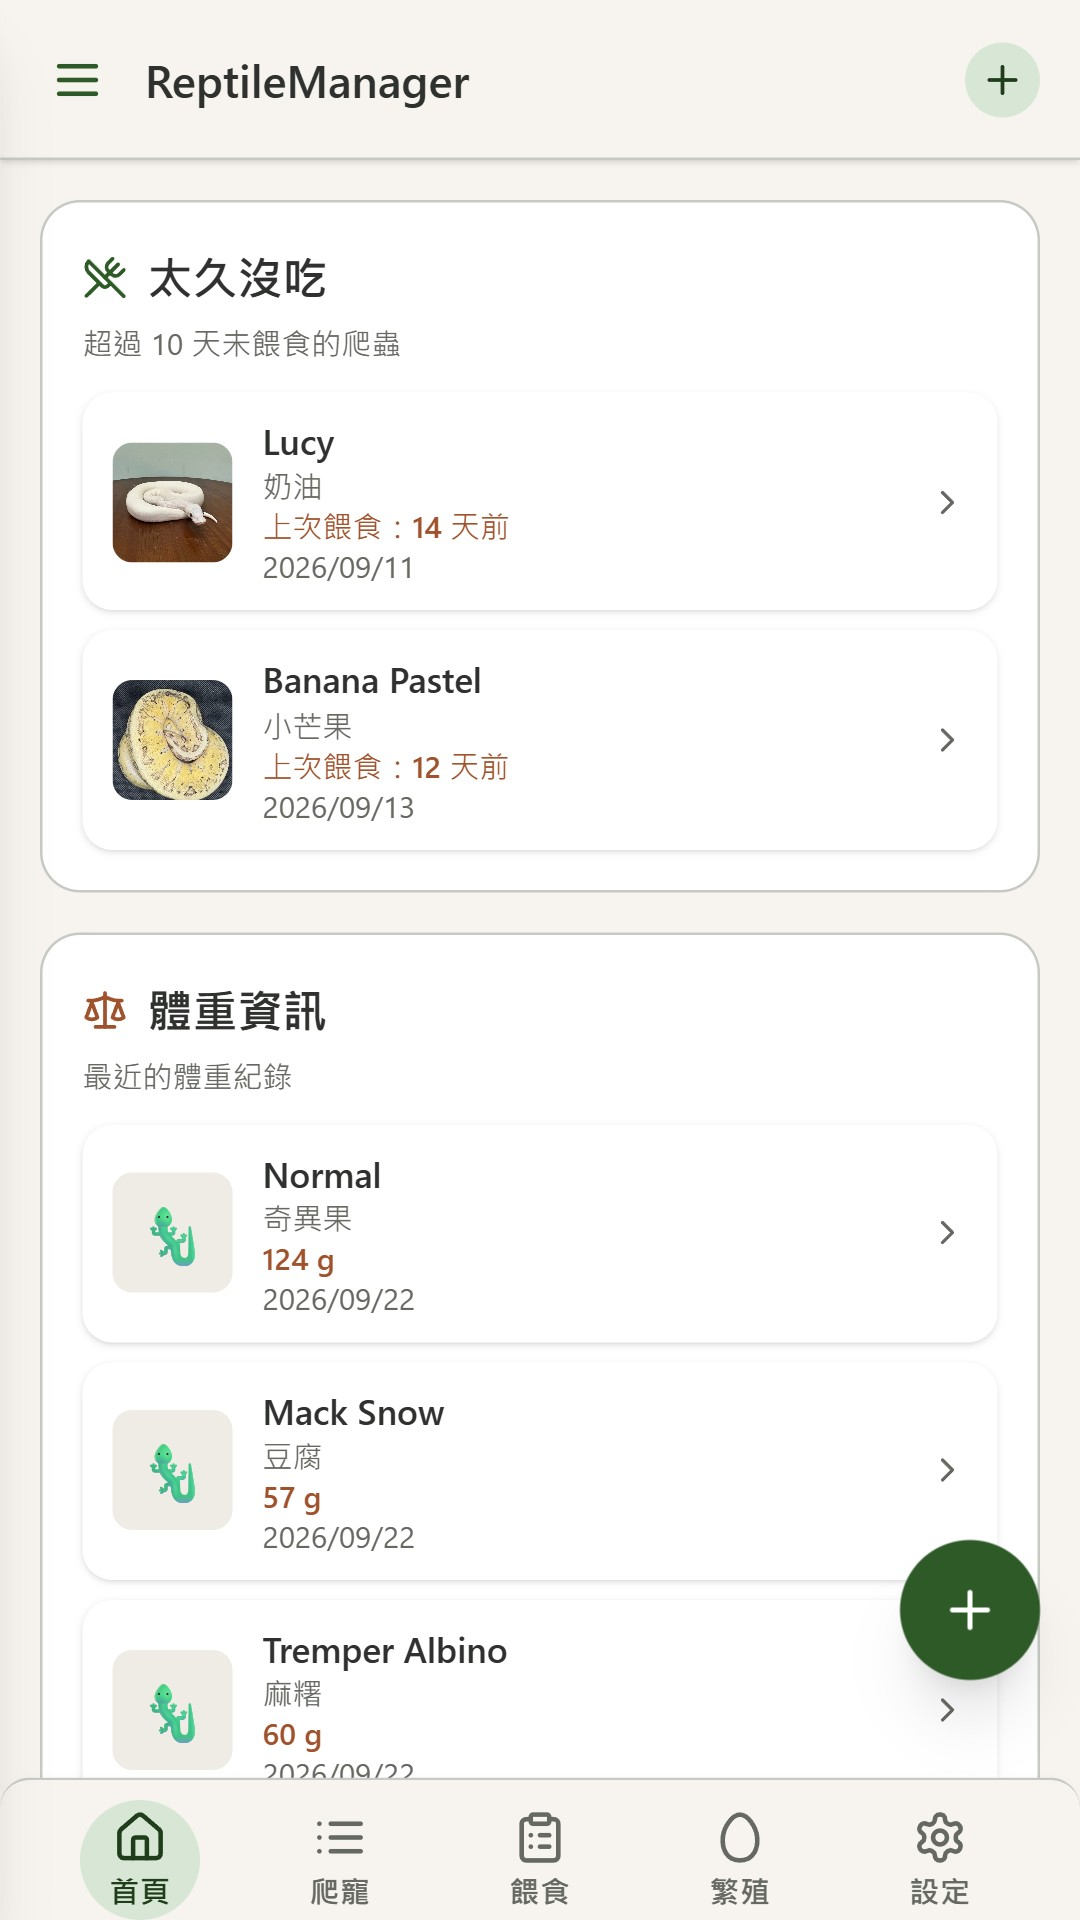
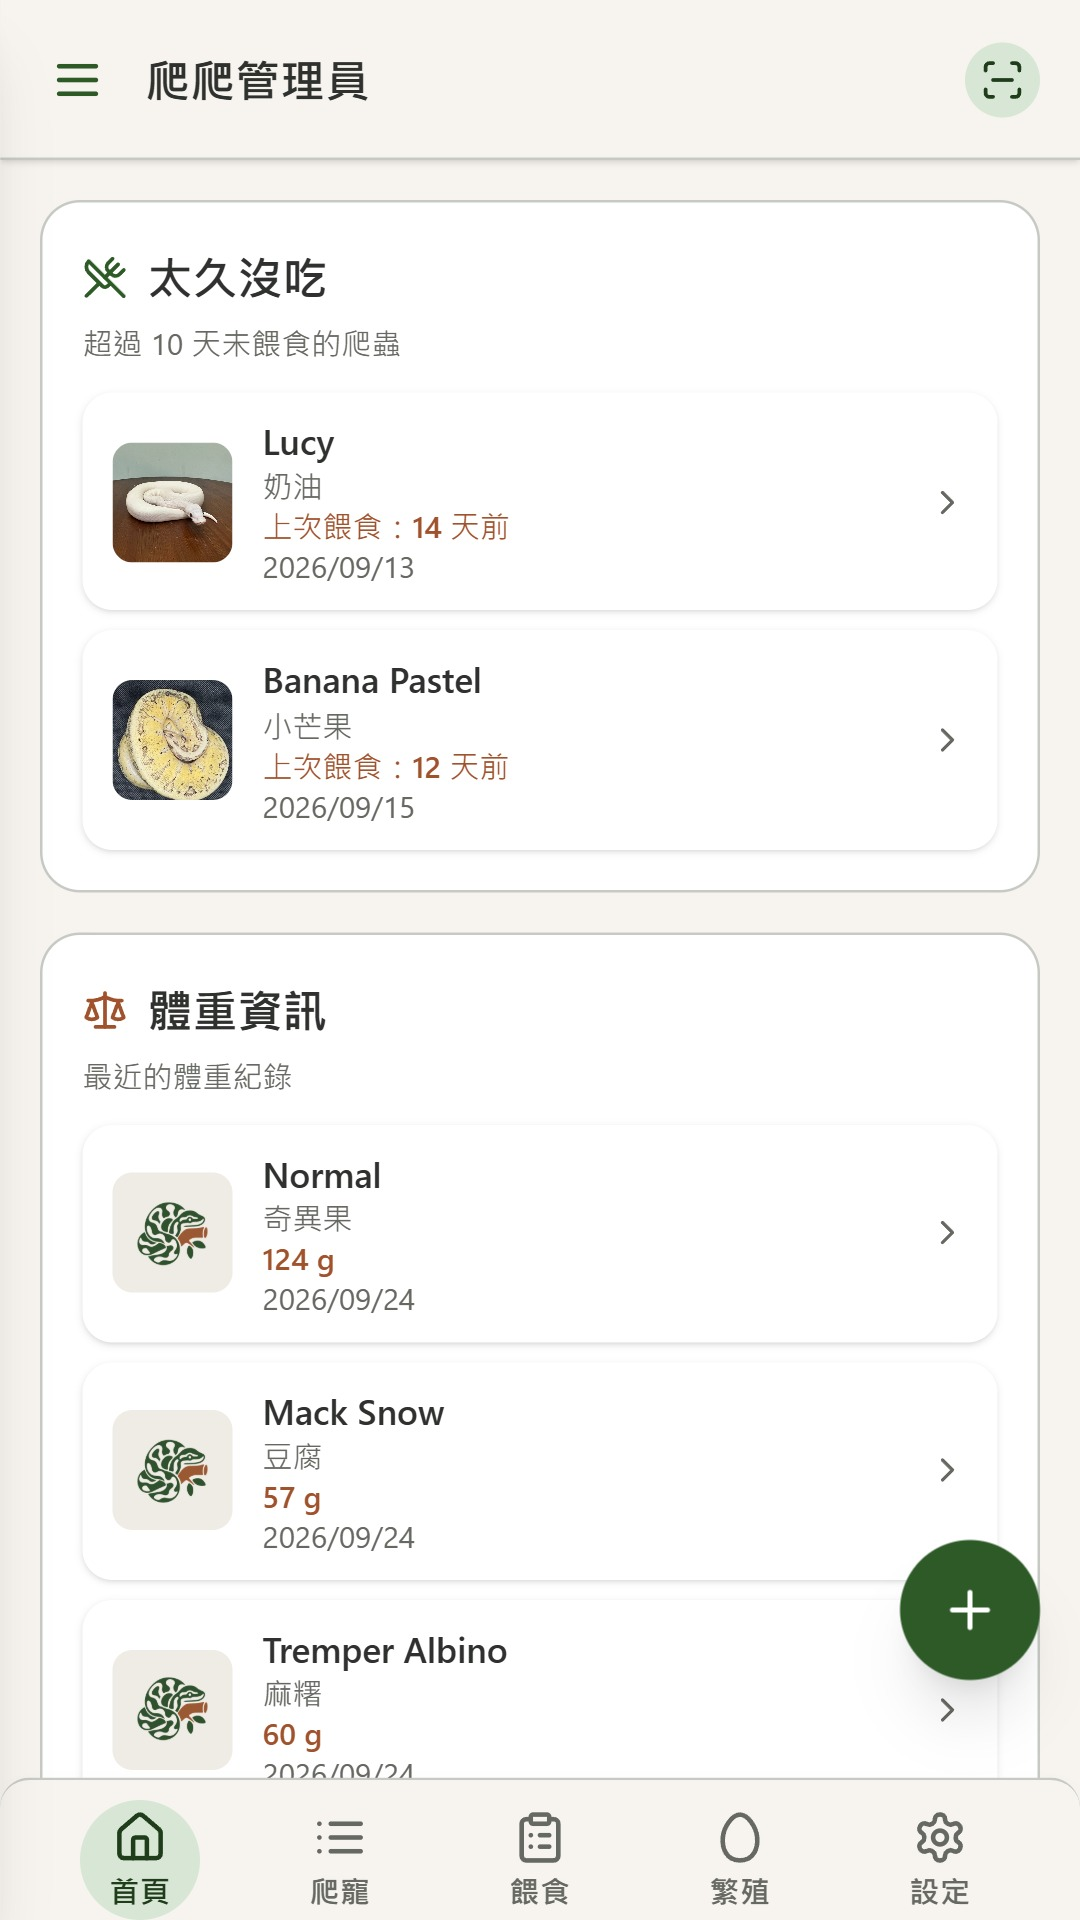
feat: update version to 0.5.3, add TipCard component with random tips feature, and enhance localization support for tips

diff --git a/src/components/TipCard.tsx b/src/components/TipCard.tsx
@@ -1,0 +1,55 @@
+import { useMemo, useState } from 'react'
+import { Link } from 'react-router-dom'
+import { ArrowRight, Lightbulb, Shuffle } from 'lucide-react'
+import { useTranslation } from 'react-i18next'
+import { availableTips, randomTipIndex } from '../lib/tips'
+
+// A random feature tip, in the spirit of iPhone's Tips. Picks a new one on each mount.
+export function TipCard({ className = '' }: { className?: string }) {
+  const { t } = useTranslation()
+  const tips = useMemo(availableTips, [])
+  const [index, setIndex] = useState(() => randomTipIndex(tips.length))
+  const tip = tips[index]
+  if (!tip) return null
+  const { Icon } = tip
+
+  return (
+    <aside
+      className={`rounded-2xl border border-tertiary bg-tertiary-container p-4 text-left ${className}`}
+      aria-label={t('tips.title')}
+      aria-live="polite"
+    >
+      <p className="mb-2 flex items-center gap-1.5 text-xs font-semibold uppercase tracking-wide text-secondary">
+        <Lightbulb size={14} aria-hidden="true" />
+        {t('tips.title')}
+      </p>
+      <div className="flex gap-3">
+        <span className="flex h-9 w-9 shrink-0 items-center justify-center rounded-xl bg-surface-container-lowest text-primary shadow-sm">
+          <Icon size={18} aria-hidden="true" />
+        </span>
+        <div className="min-w-0 flex-1">
+          <p className="text-sm font-semibold text-on-surface">{t(`tips.items.${tip.id}.title`)}</p>
+          <p className="mt-0.5 text-xs leading-relaxed text-on-surface-variant">{t(`tips.items.${tip.id}.body`)}</p>
+        </div>
+      </div>
+      <div className="mt-3 flex items-center justify-between gap-2">
+        {tip.to ? (
+          <Link to={tip.to} className="inline-flex items-center gap-1 text-xs font-semibold text-primary">
+            {t('tips.goTo')}
+            <ArrowRight size={14} aria-hidden="true" />
+          </Link>
+        ) : <span />}
+        {tips.length > 1 && (
+          <button
+            type="button"
+            onClick={() => setIndex((i) => randomTipIndex(tips.length, i))}
+            className="inline-flex items-center gap-1 rounded-lg px-2 py-1 text-xs font-semibold text-on-surface-variant hover:bg-surface-container"
+          >
+            <Shuffle size={14} aria-hidden="true" />
+            {t('tips.another')}
+          </button>
+        )}
+      </div>
+    </aside>
+  )
+}

diff --git a/src/i18n/en.ts b/src/i18n/en.ts
@@ -481,6 +481,23 @@ const en: Translation = {
     sentBody: 'I will read your message carefully.',
     sendAnother: 'Write another',
   },
+  tips: {
+    title: 'Tip',
+    another: 'Another tip',
+    goTo: 'Take a look',
+    items: {
+      scan: { title: 'Scan to open records', body: 'Tap the scan button at the top right of Home and point it at the QR code on an enclosure to jump straight to that reptile.' },
+      swipe: { title: 'Swipe for the next reptile', body: 'On a reptile\'s detail page, swipe left or right to move to the previous or next one without going back to the list.' },
+      qrExport: { title: 'Print every QR code at once', body: 'Go to Settings → Export QR Codes to get all your reptiles\' QR codes laid out, ready to print or save as PDF.' },
+      breeding: { title: 'Hatch dates, worked out for you', body: 'Add a clutch under Breeding and it lists the candling, misting, and expected hatch dates from the lay date.' },
+      todoInterval: { title: 'Reminders every N days', body: 'In Tasks you can set reminders every N days, weekly, or daily — water changes, cleaning, substrate.' },
+      quickLog: { title: 'Log straight from the list', body: 'Tap Feed or Shed on a card in your Collection. When you are done it scrolls back to that card, so logging several in a row is quick.' },
+      photoBackup: { title: 'Photos are backed up too', body: 'Uploaded photos live only on this phone. Exporting a backup in Settings includes them, so switching phones is safe.' },
+      categories: { title: 'Make categories your own', body: 'In Categories you can add, rename, or delete categories. Renaming one also updates the reptiles that use it.' },
+      install: { title: 'Install it to your home screen', body: 'Installed, it opens from your home screen and works offline, and on iPhone its data is less likely to be cleared.' },
+      feedAmount: { title: 'Any feeding amount', body: 'When logging a feeding, choose "More" to enter any number. You can edit it later in the feeding log.' },
+    },
+  },
   backup: {
     title: 'Backup & Data',
     statsSection: 'Data Summary',

diff --git a/src/i18n/zh-TW.ts b/src/i18n/zh-TW.ts
@@ -479,6 +479,23 @@ const zhTW = {
     sentBody: '你的建議我會好好看過。',
     sendAnother: '再寫一則',
   },
+  tips: {
+    title: '小技巧',
+    another: '換一個',
+    goTo: '去看看',
+    items: {
+      scan: { title: '一掃就開啟紀錄', body: '首頁右上角的掃描按鈕，對準飼育箱上的 QR Code，直接跳到那隻爬寵的頁面。' },
+      swipe: { title: '左右滑動換下一隻', body: '在爬寵的詳細頁左右滑動，就能切換上一隻、下一隻，不用回到列表。' },
+      qrExport: { title: '一次印出所有 QR Code', body: '到「設定」→「匯出 QR Code」，所有爬寵的 QR Code 會排好版，可以直接列印或存成 PDF。' },
+      breeding: { title: '孵化日自動幫你算', body: '在「繁殖」新增產蛋紀錄後，會依產卵日列出照蛋、補水和預計孵化的日子。' },
+      todoInterval: { title: '每 N 天提醒一次', body: '在「代辦管理」可以設定每 N 天、每週或每天的提醒，像是換水、清潔、換底材。' },
+      quickLog: { title: '從列表直接記錄', body: '在爬寵列表按卡片上的「餵食」或「脫皮」，記完會自動捲回那張卡片，連續記好幾隻很方便。' },
+      photoBackup: { title: '照片也會一起備份', body: '上傳的照片只存在這支手機。到「設定」匯出備份時會一起打包，換手機也不怕。' },
+      categories: { title: '分類可以自己改', body: '在「分類管理」可以新增、改名或刪除分類，改名時會一併更新用到它的爬寵。' },
+      install: { title: '裝到主畫面更安心', body: '安裝成 App 後從主畫面開啟，離線也能用；iPhone 上的資料也比較不會被系統清除。' },
+      feedAmount: { title: '餵食份量可以自訂', body: '記錄餵食時，份量選「更多」就能輸入任意數字，之後也能在餵食紀錄裡修改。' },
+    },
+  },
   backup: {
     title: '備份與資料',
     statsSection: '資料統計',

diff --git a/src/lib/tips.ts b/src/lib/tips.ts
@@ -1,0 +1,38 @@
+import type { LucideIcon } from 'lucide-react'
+import {
+  ScanLine, MoveHorizontal, QrCode, Egg, CalendarClock, MousePointerClick,
+  Camera, Tags, Smartphone, UtensilsCrossed,
+} from 'lucide-react'
+import { isStandalone } from './pwaInstall'
+
+export interface Tip {
+  id: string          // text lives at i18n `tips.items.<id>`
+  Icon: LucideIcon
+  to?: string         // optional page the "take a look" link opens
+  when?: () => boolean
+}
+
+const TIPS: Tip[] = [
+  { id: 'scan', Icon: ScanLine, to: '/scan' },
+  { id: 'swipe', Icon: MoveHorizontal, to: '/reptiles' },
+  { id: 'qrExport', Icon: QrCode, to: '/backup' },
+  { id: 'breeding', Icon: Egg, to: '/breeding' },
+  { id: 'todoInterval', Icon: CalendarClock, to: '/todos' },
+  { id: 'quickLog', Icon: MousePointerClick, to: '/reptiles' },
+  { id: 'photoBackup', Icon: Camera, to: '/backup' },
+  { id: 'categories', Icon: Tags, to: '/categories' },
+  { id: 'install', Icon: Smartphone, to: '/backup', when: () => !isStandalone() },
+  { id: 'feedAmount', Icon: UtensilsCrossed },
+]
+
+export function availableTips(): Tip[] {
+  return TIPS.filter((tip) => !tip.when || tip.when())
+}
+
+// Uniform random index; when `exclude` is given, never returns it (so "another tip" always changes)
+export function randomTipIndex(count: number, exclude?: number): number {
+  if (count <= 1) return 0
+  if (exclude === undefined) return Math.floor(Math.random() * count)
+  const i = Math.floor(Math.random() * (count - 1))
+  return i >= exclude ? i + 1 : i
+}

diff --git a/src/pages/FeedbackPage.tsx b/src/pages/FeedbackPage.tsx
@@ -3,6 +3,7 @@ import { CircleCheck, Lightbulb, Bug, Sparkles, Send, Mail } from 'lucide-react'
 import { useTranslation } from 'react-i18next'
 import { Layout } from '../components/Layout'
 import { InputField } from '../components/FormField'
+import { TipCard } from '../components/TipCard'
 import { submitFeedback, type FeedbackType } from '../lib/feedback'
 
 const CONTACT_EMAIL = 'reptilemanager@heysaori.com'
@@ -53,6 +54,7 @@ export function FeedbackPage() {
           >
             {t('feedback.sendAnother')}
           </button>
+          <TipCard className="mt-6 w-full" />
         </div>
       </Layout>
     )
@@ -63,6 +65,7 @@ export function FeedbackPage() {
   return (
     <Layout title={t('feedback.title')} back>
       <form onSubmit={handleSubmit} className="px-4 pt-4 pb-8 max-w-lg mx-auto space-y-5">
+        <TipCard />
         <p className="text-sm leading-relaxed text-on-surface-variant">{t('feedback.intro')}</p>
 
         <div className="space-y-2">

diff --git a/README.md b/README.md
@@ -1,6 +1,6 @@
 # ReptileManager — 功能架構書
 
-> 版本：0.5.2　　最後更新：2026-09-27
+> 版本：0.5.3　　最後更新：2026-09-27
 
 ---
 
@@ -143,6 +143,7 @@ ReptileManager 是一款以爬蟲飼主為目標族群的**個人寵物管理 PW
 - 自動附上：App 版本（build 時由 `package.json` 注入 `__APP_VERSION__`）、介面語言、是否為安裝版、是否為示範模式；不含任何爬寵資料，頁面上有隱私說明
 - 送出成功顯示感謝畫面，可「再寫一則」；失敗（離線或伺服器錯誤）時保留已輸入的內容，並提供作者信箱作為替代管道
 - 後端：Netlify Forms（表單名稱 `feedback`），設定方式見第 8 節
+- 小技巧（Tips）：表單頁最上方與送出後的感謝畫面各顯示一則隨機功能小技巧（`TipCard`），可按「換一個」隨機切換（不會連續重複）；有對應頁面的技巧附「去看看」連結。已安裝為 App 時不會出現「安裝到主畫面」這則。技巧清單在 `src/lib/tips.ts`，文字在 i18n `tips.items`，新增技巧時兩邊都要加
 
 ### 3.11 示範模式（Demo Mode）
 
@@ -366,7 +367,7 @@ Reptile (1)
 | App 名稱 | 介面顯示的名稱依語系切換（`common.appName`）：中文「爬爬管理員」、英文「Reptile Manager」，用於首頁標題、側邊選單上方與底部、歡迎頁左上角 |
 | 支援語言 | `zh-TW`（繁體中文，預設）、`en`（英文） |
 | 翻譯檔路徑 | `src/i18n/zh-TW.ts`、`src/i18n/en.ts` |
-| 命名空間 | common, nav, pwa, home, reptile, feed, medication, environment, health, todo, todoItem, categories, clutch, activityLog, scan, install, feedback, backup |
+| 命名空間 | common, nav, pwa, home, reptile, feed, medication, environment, health, todo, todoItem, categories, clutch, activityLog, scan, install, feedback, tips, backup |
 | 偏好儲存 | localStorage key: `reptileManager_lang` |
 
 ---
